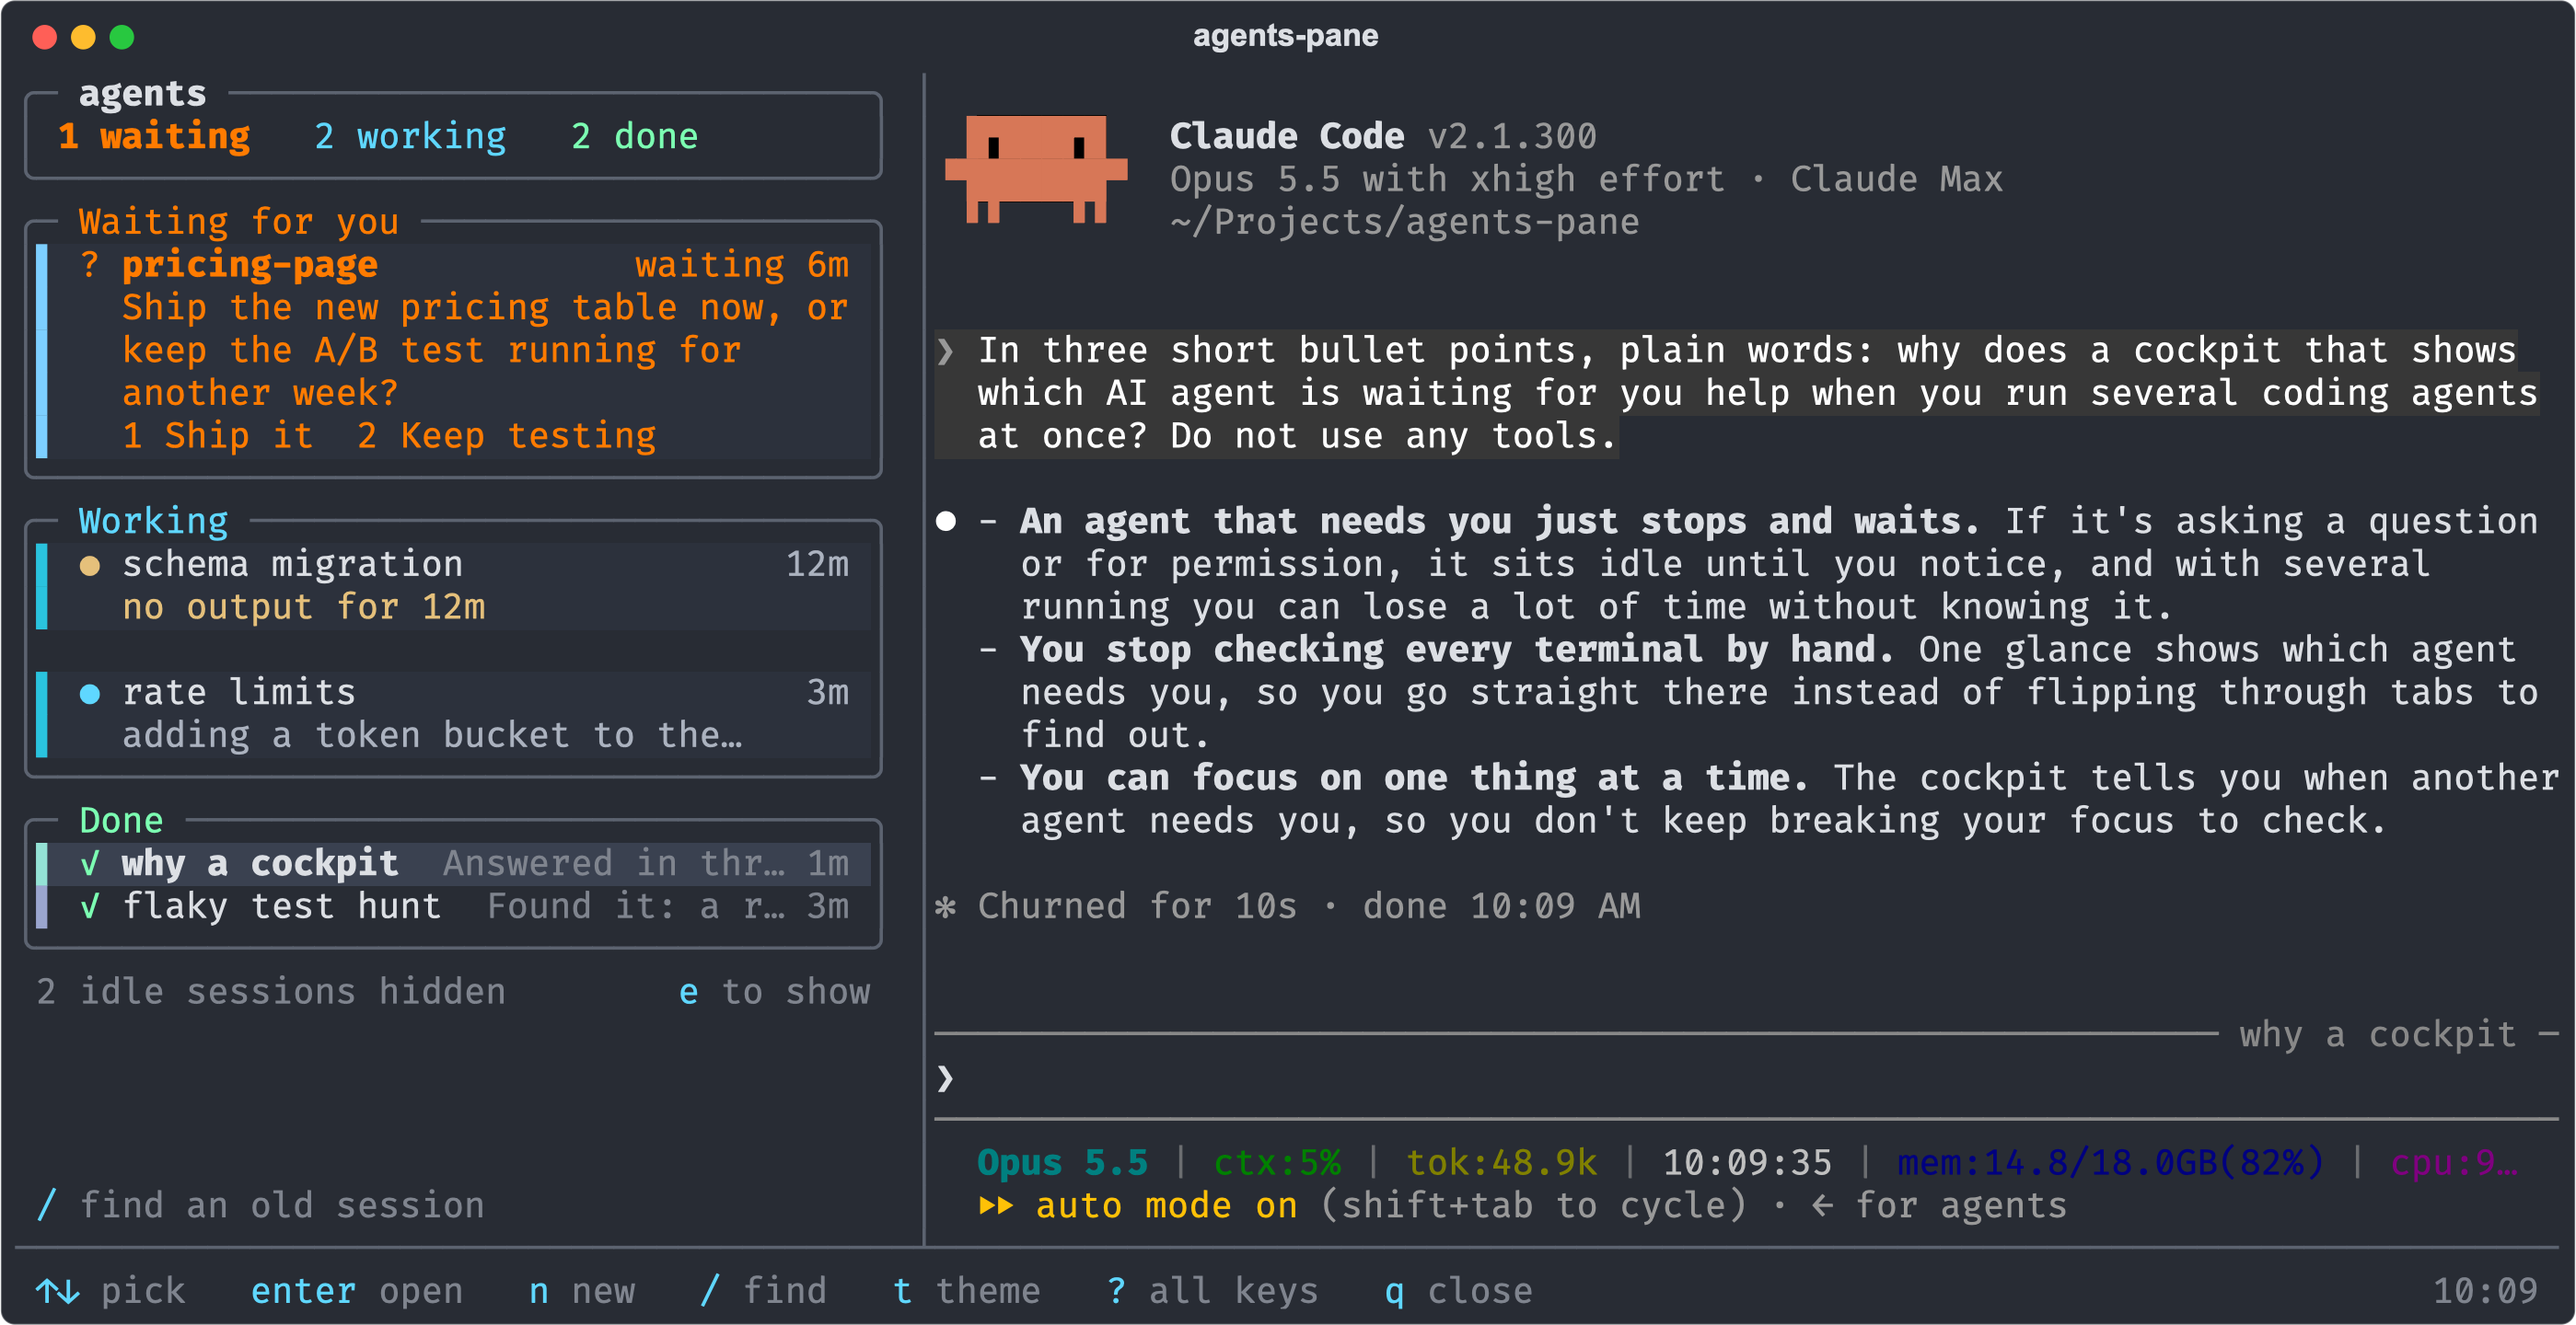
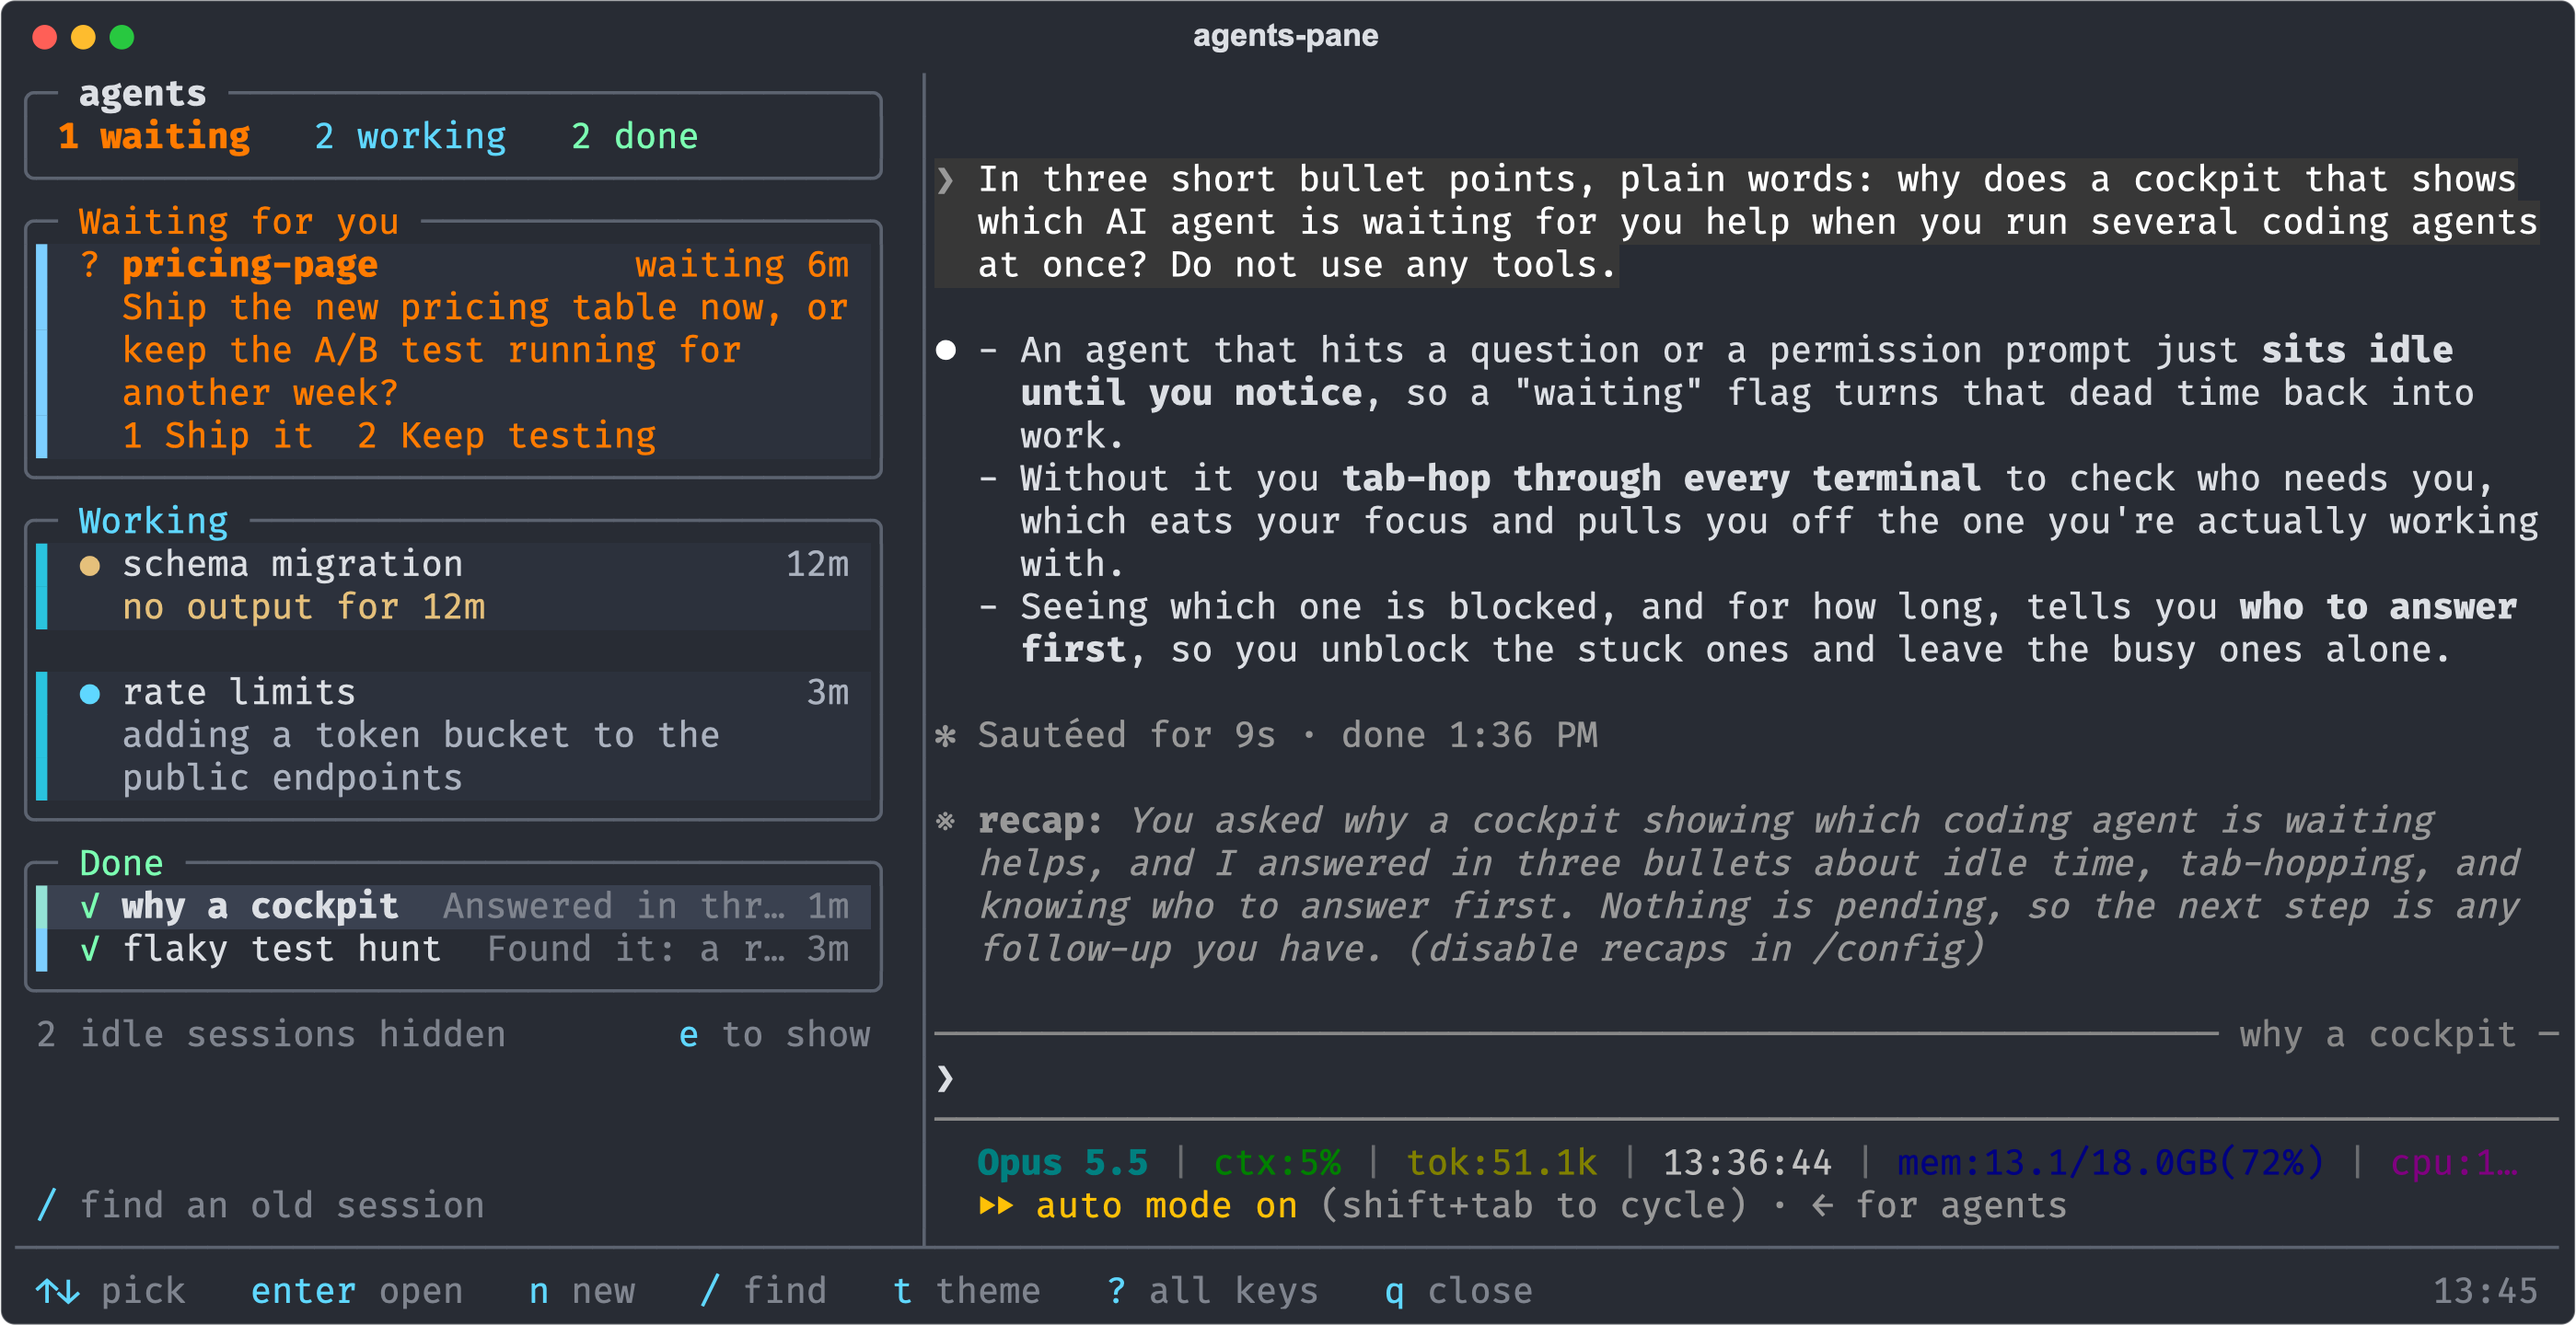
README: pictures of 4.1, including the peek

diff --git a/CHANGELOG.md b/CHANGELOG.md
@@ -8,14 +8,14 @@ The shape follows Keep a Changelog (https://keepachangelog.com/en/1.1.0/) and th
 ## [4.1.0] - 2026-10-22
 
 ### Added
-- The right side shows a peek at any session that isn't running (most of them, since Claude Code stops an idle session's process after about an hour): what you asked, its last reply, its recap, what it's doing, and only the keys that work for it. Nothing starts until you press Enter.
+- The right side shows a peek at any session that isn't running (most of them, since Claude Code stops an idle session's process after about an hour): what you asked, its last reply, its recap, and only the keys that work for it. Nothing starts until you press Enter.
 
 ### Changed
 - Find searches a small index of only your prompts, replies, recaps and titles, so a search takes 15 to 300 ms instead of 5 to 14 seconds, and the list no longer swells to several GB while it searches. The index builds once (about 5 seconds) and then reads only what's new.
-- One arrow press shows the next session right away; a quick run of presses still waits for you to stop.
+- One arrow press shows the next session right away. A quick run of presses still waits for you to stop.
 - A session stuck on a permission prompt says what it wants to do, instead of a blank line.
-- Working cards say what they're doing in words on up to two lines; messaging, tool searches, schedules and other common tools no longer show as code names.
-- Cards use Claude Code's own name for a session (your rename first), so they match the right side and agent view.
+- Working cards say what they're doing in plain words on up to two lines. Messaging, tool searches, schedules and other common tools no longer show as code names.
+- Cards use Claude Code's own name for a session (or your rename, if you gave it one), so they match the right side and agent view.
 - A session waiting for more than two hours stays orange but stops pulsing, and nothing pulses while no one has the dashboard open.
 - A reply whose first sentence is one word ("Done.") shows the next sentence too.
 - A chat in the Claude app is described as one, not as a terminal tab.
@@ -23,7 +23,7 @@ The shape follows Keep a Changelog (https://keepachangelog.com/en/1.1.0/) and th
 ### Fixed
 - The right side now follows the highlighted card from the moment the dashboard opens.
 - `u` counts the days you opened the dashboard, not the days its list process happened to start.
-- A double-click on a card no longer leaves your keys in the list.
+- A double-click on a card no longer leaves your typing in the list.
 - If the right side ever closes, the next session you pick brings it back.
 - Find's "still indexing" note no longer hides under a long list of results.
 

diff --git a/README.md b/README.md
@@ -20,6 +20,8 @@ So I built a split screen in tmux: all my sessions in a list on the left, with t
 
 It works everything out from the files Claude Code already writes, so there's nothing to keep updated by hand.
 
+![A peek at a session that isn't running: what you asked, its last reply and its recap](docs/images/peek.png)
+
 ![The same list in three color themes](docs/images/themes.png)
 
 ## Who it's for
